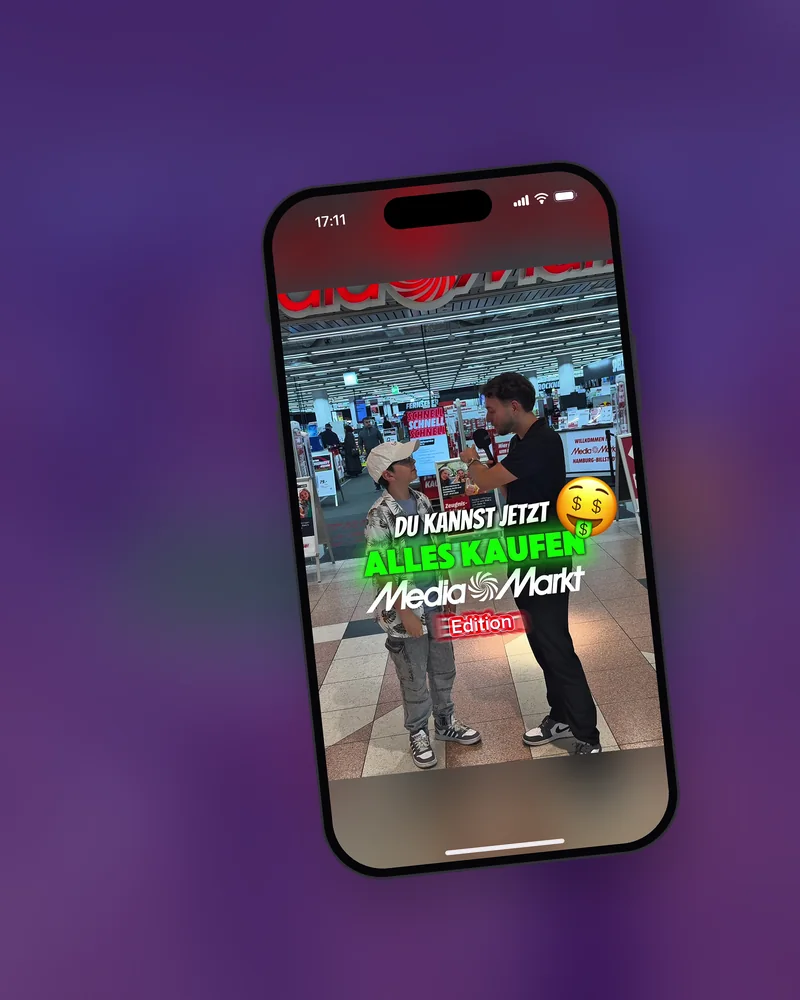
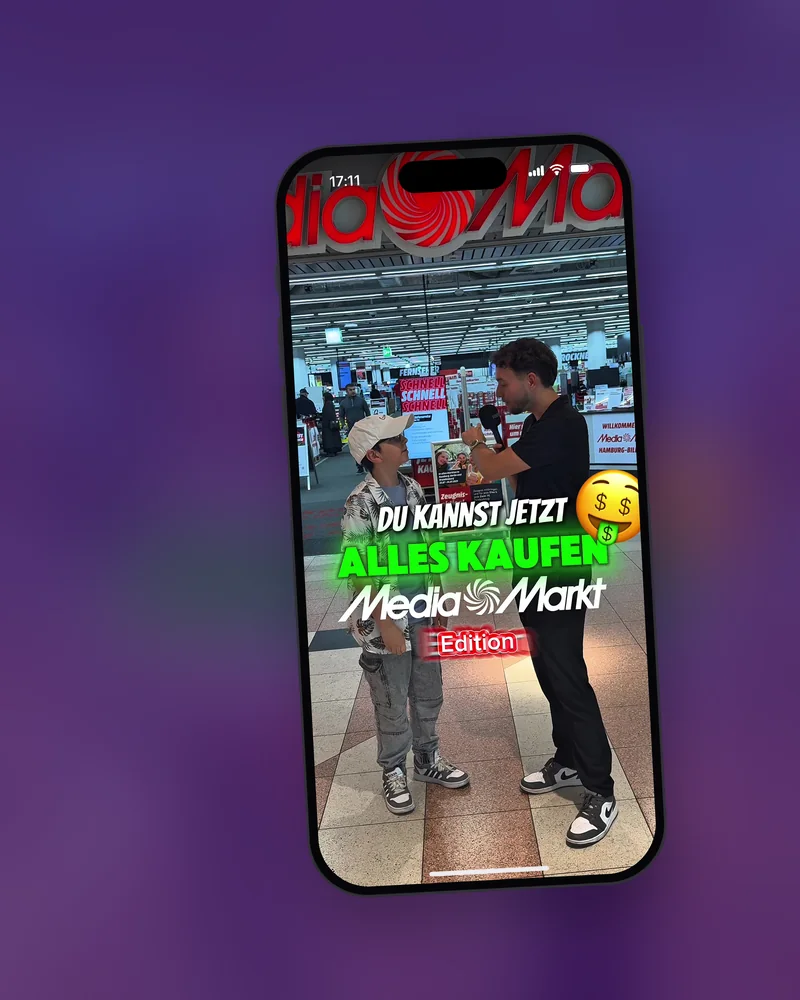
Portfolio: full-screen phone mockups with real video frames
- 19.5:9 display like a real iPhone, status bar 17:11, each tile with its own slight tilt
- Every screen is filled by the video frame at the moment of its TikTok cover (no blurred bands)
- Aquis tile shows 'Malen & Behalten'; its crop window is shifted so the title is centred
- Generator takes tilt and horizontal focus as parameters

Changed region(s): [[0.3125, 0.124, 0.875, 0.899]]

diff --git a/scripts/make_portfolio_mockup.py b/scripts/make_portfolio_mockup.py
@@ -1,26 +1,27 @@
-"""Usage: python3 scripts/make_portfolio_mockup.py <cover.jpg> public/projects_photo/<Name>_Image.webp
-Needs Pillow. The cover is the TikTok cover of the video (thumbnail_url from https://www.tiktok.com/oembed?url=<video url>).
+"""Usage: python3 scripts/make_portfolio_mockup.py <frame.jpg> public/projects_photo/<Name>_Image.webp [tilt] [focus_x]
+Needs Pillow. <frame.jpg> is a full-height (9:16) frame of the video at the moment its TikTok cover shows.
+tilt: degrees, positive = counter-clockwise. focus_x: 0..1, shifts the crop window to centre an off-centre title.
+In use: Aquis 7 0.371, Olympia -5, Billstedt 3, MyZeil -7, Rushfood 9.
 
 Builds an 800x1000 portfolio mockup: a tilted phone with real iPhone proportions on a blurred,
-purple-tinted backdrop. The cover keeps its own format at full width, centred on a blurred copy of itself.
+purple-tinted backdrop. The picture must be a full-height (9:16) video frame; it fills the whole display.
 
-The screen is 18:9. Island, status bar and home indicator use iOS point sizes (screen width = 393 pt):
+The screen is 19.5:9, like a real iPhone. Island, status bar and home indicator use iOS point sizes (screen width = 393 pt):
 island 126 x 37 pt at 11 pt, status bar 54 pt, home indicator 139 x 5 pt at 8 pt from the bottom."""
 import sys
 from PIL import Image, ImageDraw, ImageFilter, ImageEnhance, ImageFont
 
 W, H = 800, 1000
 SS = 3                                     # supersampling for clean edges
-BODY_W, BODY_H = 360, 698                  # screen is exactly 18:9 (338 x 676), a middle ground between 16:9 and a real 19.5:9 iPhone
+BODY_W, BODY_H = 360, 754                  # screen 338 x 732 = 19.5:9, the real iPhone display
 BEZEL = 11
 SCREEN_W, SCREEN_H = BODY_W - 2 * BEZEL, BODY_H - 2 * BEZEL     # 338 x 676 = 0.5
 K = SCREEN_W / 393                         # px per iOS point
 R_BODY, R_SCREEN = 60, 50
 BTN = 3                                    # how far the side buttons stick out
-ANGLE = 6.0                                # counter-clockwise, like the existing mockups
-CENTER = (470, 520)
+ANGLE = 6.0                                # default tilt; positive = counter-clockwise. Pass another angle per tile for variety.
+CENTER = (470, 515)
 CLOCK = "17:11"
-COVER_RATIO = 1048 / 1518                  # TikTok's cover format; every cover is shown in exactly this shape
 
 def P(v):                                  # iOS points -> supersampled px
     return v * K * SS
@@ -30,11 +31,13 @@ def rounded_mask(size, radius):
     ImageDraw.Draw(m).rounded_rectangle([0, 0, size[0] - 1, size[1] - 1], radius=radius, fill=255)
     return m
 
-def cover_fit(im, size):
+def cover_fit(im, size, focus_x=0.5):
+    """Resize and crop to fill `size`. focus_x shifts the horizontal crop window (0 = left, 1 = right),
+    e.g. to centre a title that sits off-centre in the frame."""
     tw, th = size
     scale = max(tw / im.width, th / im.height)
     im = im.resize((round(im.width * scale), round(im.height * scale)), Image.LANCZOS)
-    x, y = (im.width - tw) // 2, (im.height - th) // 2
+    x, y = round((im.width - tw) * focus_x), (im.height - th) // 2
     return im.crop((x, y, x + tw, y + th))
 
 def clock_font(px):
@@ -71,28 +74,28 @@ def draw_status_bar(screen):
     d.rounded_rectangle([bx + P(2), cy - P(4), bx + P(22.5), cy + P(4)], radius=P(2.2), fill=white)
     d.rounded_rectangle([bx + P(25.6), cy - P(2), bx + P(27), cy + P(2)], radius=P(0.7), fill=(255, 255, 255, 115))
 
-def make_screen(cover):
+def make_screen(cover, focus_x=0.5):
+    """Full-height (9:16) video frames fill the whole display. Trimmed TikTok covers keep their full
+    width on a blurred copy of themselves, so no hook text is cut off. The status bar lies on top."""
     sw, sh = SCREEN_W * SS, SCREEN_H * SS
-    back = cover_fit(cover, (sw, sh)).filter(ImageFilter.GaussianBlur(sw / 16))
-    screen = ImageEnhance.Brightness(back).enhance(0.72).convert("RGBA")
-
-    # One format for all: full 9:16 covers are centre-cropped top and bottom, like TikTok's profile grid does.
-    cover_h = round(sw / COVER_RATIO)
-    sharp, top = cover_fit(cover, (sw, cover_h)), (sh - cover_h) // 2
-    screen.paste(sharp.convert("RGBA"), (0, top))
-
-    if top < P(54) / 2:                                      # status bar lies on the sharp picture: soft dark fade
-        fade_h = int(P(54) * 2)
-        col = Image.new("L", (1, fade_h), 0)
-        for y in range(fade_h):
-            col.putpixel((0, y), int(125 * (1 - y / fade_h) ** 1.6))
-        dark = Image.new("RGBA", (sw, fade_h), (0, 0, 0, 255))
-        dark.putalpha(col.resize((sw, fade_h)))
-        screen.alpha_composite(dark, (0, 0))
+    if cover.width / cover.height <= 0.6:
+        screen = cover_fit(cover, (sw, sh), focus_x).convert("RGBA")
+    else:
+        back = cover_fit(cover, (sw, sh)).filter(ImageFilter.GaussianBlur(sw / 16))
+        screen = ImageEnhance.Brightness(back).enhance(0.72).convert("RGBA")
+        h = round(cover.height * sw / cover.width)
+        screen.paste(cover.resize((sw, h), Image.LANCZOS).convert("RGBA"), (0, (sh - h) // 2))
+    fade_h = int(P(54) * 2)                                  # soft dark fade so the status bar stays legible
+    col = Image.new("L", (1, fade_h), 0)
+    for y in range(fade_h):
+        col.putpixel((0, y), int(125 * (1 - y / fade_h) ** 1.6))
+    dark = Image.new("RGBA", (sw, fade_h), (0, 0, 0, 255))
+    dark.putalpha(col.resize((sw, fade_h)))
+    screen.alpha_composite(dark, (0, 0))
     draw_status_bar(screen)
     return screen
 
-def build(cover_path, out_path):
+def build(cover_path, out_path, angle=ANGLE, focus_x=0.5):
     cover = Image.open(cover_path).convert("RGB")
 
     bg = cover_fit(cover, (W, H)).filter(ImageFilter.GaussianBlur(42))
@@ -113,14 +116,14 @@ def build(cover_path, out_path):
     d.rounded_rectangle([ox + 2.5 * SS, 2.5 * SS, ox + bw_ - 1 - 2.5 * SS, ph - 1 - 2.5 * SS], radius=(R_BODY - 2.5) * SS, fill=(6, 6, 9, 255))  # bezel
     sx, sy = ox + BEZEL * SS, BEZEL * SS
     sw, sh = SCREEN_W * SS, SCREEN_H * SS
-    phone.paste(make_screen(cover), (sx, sy), rounded_mask((sw, sh), R_SCREEN * SS))
+    phone.paste(make_screen(cover, focus_x), (sx, sy), rounded_mask((sw, sh), R_SCREEN * SS))
     d = ImageDraw.Draw(phone)
     iw, ih = P(126), P(37)                                                                                        # dynamic island
     d.rounded_rectangle([sx + (sw - iw) / 2, sy + P(11), sx + (sw + iw) / 2, sy + P(11) + ih], radius=ih / 2, fill=(0, 0, 0, 255))
     hw, hh = P(139), P(5)                                                                                         # home indicator
     d.rounded_rectangle([sx + (sw - hw) / 2, sy + sh - P(8) - hh, sx + (sw + hw) / 2, sy + sh - P(8)], radius=hh / 2, fill=(255, 255, 255, 235))
 
-    phone = phone.rotate(ANGLE, resample=Image.BICUBIC, expand=True)
+    phone = phone.rotate(angle, resample=Image.BICUBIC, expand=True)
     phone = phone.resize((phone.width // SS, phone.height // SS), Image.LANCZOS)
 
     shadow = Image.new("RGBA", (W, H), (0, 0, 0, 0))
@@ -135,5 +138,7 @@ def build(cover_path, out_path):
     out.convert("RGB").save(out_path, "WEBP", quality=84, method=6)
 
 if __name__ == "__main__":
-    build(sys.argv[1], sys.argv[2])
-    print("screen %dx%d = %.4f (18:9 = 0.5)" % (SCREEN_W, SCREEN_H, SCREEN_W / SCREEN_H))
+    build(sys.argv[1], sys.argv[2],
+          float(sys.argv[3]) if len(sys.argv) > 3 else ANGLE,
+          float(sys.argv[4]) if len(sys.argv) > 4 else 0.5)
+    print("screen %dx%d = %.4f (19.5:9 = 0.4615)" % (SCREEN_W, SCREEN_H, SCREEN_W / SCREEN_H))
